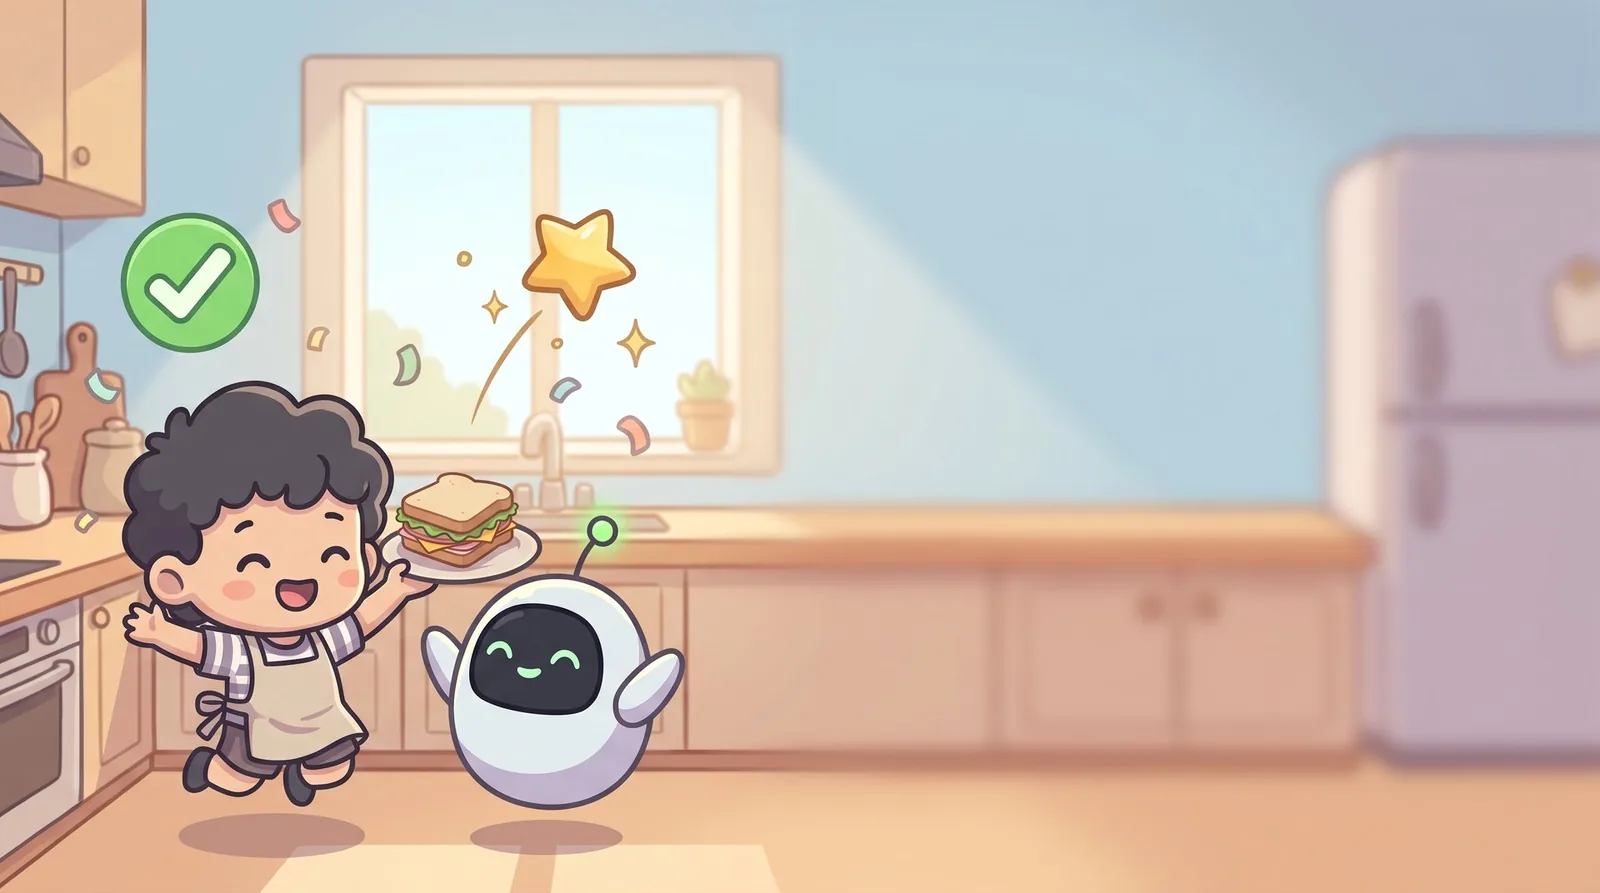
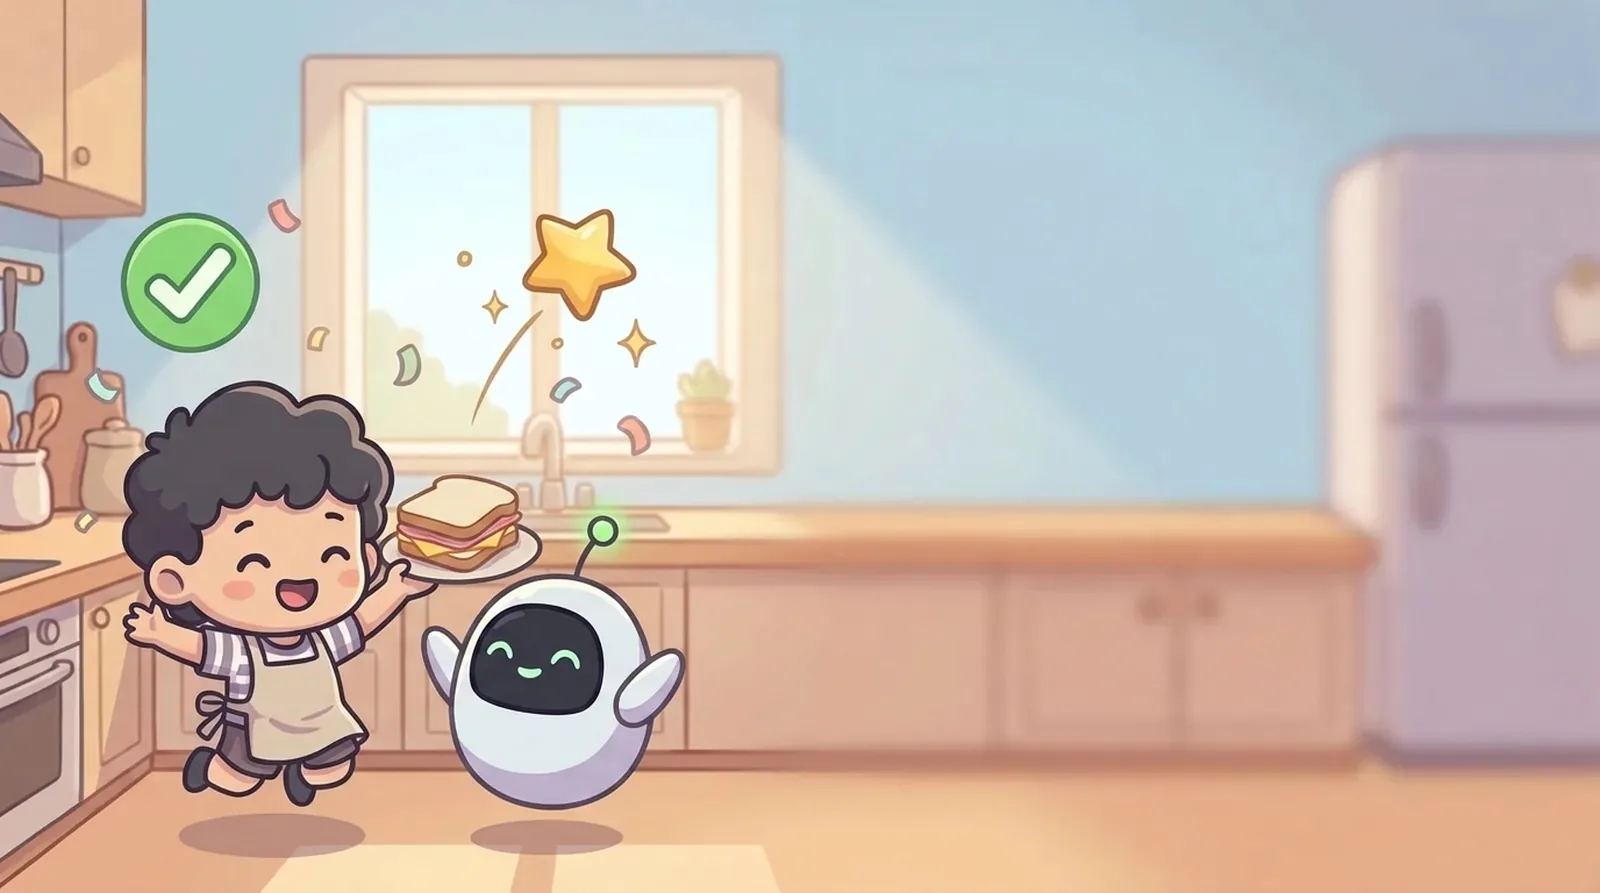
Abertura com a cidade nova; win1 e lição 4 do sanduíche sem alface
- story2, story3 e story4: os quadros da abertura agora usam a cidade e
  os alfinetes do mapa novo (?v= das imagens atualizado em app.js).
- win1 e licoes/sanduiche-4: sanduíche sem alface.
- Faltam level1 e licoes/sanduiche-5 (ainda com alface).

Claude-Session: https://claude.ai/code/session_01Bsh6piozmz16a6ATAsBfSm

Changed region(s): [[0.2188, 0.514, 0.3438, 0.6652], [0.2812, 0.6954, 0.3125, 0.7559], [0.1875, 0.6954, 0.2188, 0.7559]]

diff --git a/index.html b/index.html
@@ -11,7 +11,7 @@
       href="https://fonts.googleapis.com/css2?family=Fredoka:wght@500;700&family=Nunito:wght@600;800&display=swap"
       rel="stylesheet"
     />
-    <link rel="stylesheet" href="style.css?v=202611110715" />
+    <link rel="stylesheet" href="style.css?v=202611110727" />
   </head>
   <body>
     <div id="stage">
@@ -572,17 +572,17 @@
          das cartas numa região, explicações de erro em outra -->
     <div class="sr leitor-avisos" aria-live="polite"></div>
     <div class="sr leitor-explicacao" aria-live="polite"></div>
-    <script src="js/motor.js?v=202611110715"></script>
-    <script src="js/comum.js?v=202611110715"></script>
-    <script src="js/situacoes.js?v=202611110715"></script>
-    <script src="js/em-progresso.js?v=202611110715"></script>
-    <script src="js/som.js?v=202611110715"></script>
-    <script src="js/progresso.js?v=202611110715"></script>
-    <script src="js/perfil.js?v=202611110715"></script>
-    <script src="js/arrasto.js?v=202611110715"></script>
-    <script src="js/conclusao.js?v=202611110715"></script>
-    <script src="js/montagem.js?v=202611110715"></script>
-    <script src="js/jogo.js?v=202611110715"></script>
-    <script src="js/app.js?v=202611110715"></script>
+    <script src="js/motor.js?v=202611110727"></script>
+    <script src="js/comum.js?v=202611110727"></script>
+    <script src="js/situacoes.js?v=202611110727"></script>
+    <script src="js/em-progresso.js?v=202611110727"></script>
+    <script src="js/som.js?v=202611110727"></script>
+    <script src="js/progresso.js?v=202611110727"></script>
+    <script src="js/perfil.js?v=202611110727"></script>
+    <script src="js/arrasto.js?v=202611110727"></script>
+    <script src="js/conclusao.js?v=202611110727"></script>
+    <script src="js/montagem.js?v=202611110727"></script>
+    <script src="js/jogo.js?v=202611110727"></script>
+    <script src="js/app.js?v=202611110727"></script>
   </body>
 </html>

diff --git a/editor.html b/editor.html
@@ -8,8 +8,8 @@
       href="https://fonts.googleapis.com/css2?family=Fredoka:wght@500;700&family=Nunito:wght@600;800&display=swap"
       rel="stylesheet"
     />
-    <link rel="stylesheet" href="style.css?v=202611110715" />
-    <link rel="stylesheet" href="editor.css?v=202611110715" />
+    <link rel="stylesheet" href="style.css?v=202611110727" />
+    <link rel="stylesheet" href="editor.css?v=202611110727" />
   </head>
   <body class="editor">
     <!-- ================== O EDITOR ================== -->
@@ -474,16 +474,16 @@
     <script>
       window.ALGORITIMANDO_PREVIA = true;
     </script>
-    <script src="js/motor.js?v=202611110715"></script>
-    <script src="js/comum.js?v=202611110715"></script>
-    <script src="js/som.js?v=202611110715"></script>
-    <script src="js/progresso.js?v=202611110715"></script>
-    <script src="js/perfil.js?v=202611110715"></script>
-    <script src="js/arrasto.js?v=202611110715"></script>
-    <script src="js/conclusao.js?v=202611110715"></script>
-    <script src="js/montagem.js?v=202611110715"></script>
-    <script src="js/jogo.js?v=202611110715"></script>
-    <script src="js/situacoes.js?v=202611110715"></script>
-    <script src="js/editor.js?v=202611110715"></script>
+    <script src="js/motor.js?v=202611110727"></script>
+    <script src="js/comum.js?v=202611110727"></script>
+    <script src="js/som.js?v=202611110727"></script>
+    <script src="js/progresso.js?v=202611110727"></script>
+    <script src="js/perfil.js?v=202611110727"></script>
+    <script src="js/arrasto.js?v=202611110727"></script>
+    <script src="js/conclusao.js?v=202611110727"></script>
+    <script src="js/montagem.js?v=202611110727"></script>
+    <script src="js/jogo.js?v=202611110727"></script>
+    <script src="js/situacoes.js?v=202611110727"></script>
+    <script src="js/editor.js?v=202611110727"></script>
   </body>
 </html>

diff --git a/js/app.js b/js/app.js
@@ -136,7 +136,7 @@
     // a arte aparece inteira; o fundo desfocado (a mesma imagem)
     // preenche a sobra, seja qual for o formato da tela
     // ?v= faz o navegador buscar a imagem nova quando ela muda
-    $('#story').style.setProperty('--arte', `url(img/story${i + 1}.webp?v=202611110352)`);
+    $('#story').style.setProperty('--arte', `url(img/story${i + 1}.webp?v=202611110727)`);
     $('#sceneText').textContent = ABERTURA[i];
     $('#dots').innerHTML = ABERTURA.map((_, k) => `<i class="${k === i ? 'on' : ''}"></i>`).join('');
     const ultimo = i === ABERTURA.length - 1;

diff --git a/PROMPTS-CENAS.md b/PROMPTS-CENAS.md
@@ -221,7 +221,7 @@ Style: cute flat cartoon illustration for a children's educational game (ages 8 
 
 ## Abertura (quadros 2, 3 e 4)
 
-Os quadros 2 a 4 da abertura ainda mostram a central antiga (um telão com pontos laranja). Estas versões usam a cidade e os alfinetes do mapa novo. O quadro 1 (`story1`, o mapa) já está certo.
+**Prontos:** os quatro quadros já usam a cidade e os alfinetes do mapa novo. Os prompts ficam como registro.
 
 **Salve com o mesmo nome** (`story2.webp`, `story3.webp`, `story4.webp`). Formato 16:9. A legenda aparece numa faixa abaixo da imagem, sem cobrir nada.
 
@@ -257,7 +257,7 @@ Style: cute flat cartoon illustration for a children's educational game (ages 8 
 
 ## Sanduíche sem alface (correções)
 
-O chamado do sanduíche usa só pão, manteiga, queijo e presunto, mas quatro imagens antigas mostram alface. São **edições**: anexe a própria imagem e peça só a troca do sanduíche. Salve com o mesmo nome. Se o gerador mudar mais coisas, peça de novo com "change only the sandwich".
+O chamado do sanduíche usa só pão, manteiga, queijo e presunto, mas quatro imagens antigas mostravam alface. **Já corrigidas:** `win1` e `sanduiche-4`. **Faltam:** `level1` e `sanduiche-5`. São **edições**: anexe a própria imagem e peça só a troca do sanduíche. Salve com o mesmo nome. Se o gerador mudar mais coisas, peça de novo com "change only the sandwich".
 
 ### `level1.webp` — fundo do nível (o balão de pensamento)
 
